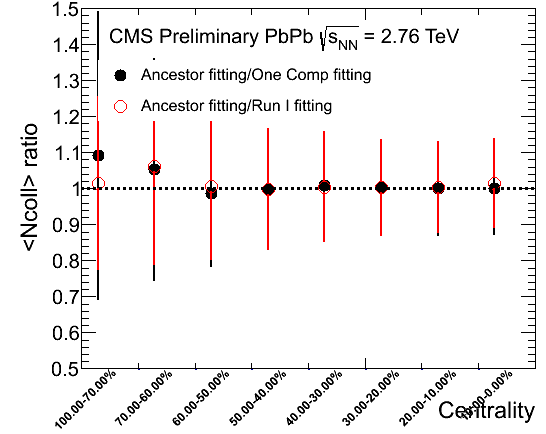
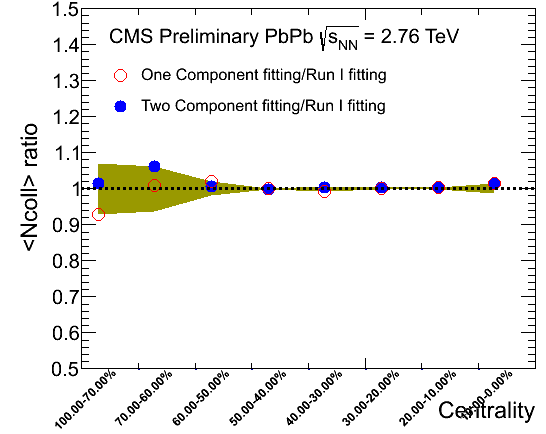
systematics

diff --git a/flow/LYZ/v2/PbPb2011MB/plotv2vseta_4p_sys.C b/flow/LYZ/v2/PbPb2011MB/plotv2vseta_4p_sys.C
@@ -1,46 +1,9 @@
 #include "par.h"
 #include "/home/xuq7/HI/jetRpA/RpA/Quality/root_setting.h"
-void plotv2vspt_4p_sys(){
+void plotv2vseta_4p_sys(){
 
 const int ntotbin=4;
-const int npt24=9;
-const double pt[npt24]={0.4,0.7,1.2,1.7,2.2,2.7,3.4,4.4,5.4};
-const double v24[5][npt24]={
-    {0.0436326,0.0795412,0.117455,0.135615,0.138952,0.137704,0.12716,0.104461,0.102546},
-    {0.0441134,0.081454,0.120992,0.142609,0.148646,0.144631,0.13748,0.115206,0.102368},
-    {0.0444633,0.0827859,0.124137,0.145269,0.149668,0.150845,0.144292,0.115638,0.127838},
-    {0.045803,0.083701,0.127181,0.148425,0.151695,0.152144,0.135538,0.115144,0.0939622}
-};
-const double v24err[5][npt24]={
-    {0.000639539,0.000826055,0.00117583,0.00173971,0.00147411,0.00425427,0.00290752,0.0075635,0.0180777},
-    {0.000489939,0.000748004,0.00106544,0.00130725,0.0021476,0.00300211,0.00460689,0.00430641,0.00958347},
-    {0.000539929,0.000592858,0.00159546,0.001461,0.00161371,0.00332517,0.00381725,0.00692403,0.0137116},
-    {0.000685138,0.0011504,0.00182689,0.00135556,0.00211262,0.00191136,0.00361452,0.00609861,0.0112248}
-};
-const double v26[5][npt24]={
-    {0.0436647,0.0766372,0.115253,0.134962,0.138116,0.132017,0.129223,0.0959764,0.159984},
-    {0.0427129,0.07916,0.119421,0.142728,0.147721,0.142104,0.138136,0.111479,0.0930553},
-    {0.0439986,0.0812754,0.121722,0.141086,0.144929,0.14576,0.141362,0.103954,0.118998},
-    {0.045338,0.081817,0.124592,0.145770,0.148010,0.151483,0.135710,0.115941,0.088239}
-};
-const double v26err[5][npt24]={
-    {0.00117633,0.00172456,0.00243925,0.00331087,0.00340786,0.00552076,0.0053438,0.00634,0.023902},
-    {0.000714298,0.00115609,0.00178786,0.00201899,0.00247538,0.0042914,0.00441189,0.00375012,0.00991865},
-    {0.0007454,0.00108873,0.00211174,0.00242773,0.002964,0.00406841,0.00325586,0.0105999,0.0164428},
-    {0.000950693,0.00149145,0.00207434,0.00228235,0.0025587,0.00320457,0.00459367,0.00899185,0.00916074}
-};
-const double v28[5][npt24]={
-    {0.0413359,0.0745479,0.111287,0.1315,0.13296,0.120331,0.132252,0.105274,0.158618},
-    {0.0424299,0.0761756,0.115879,0.137643,0.138677,0.13397,0.125922,0.103297,0.115589},
-    {0.0424748,0.079193,0.118646,0.143186,0.147939,0.139611,0.137666,0.118945,0.0998064},
-    {0.044857,0.081403,0.122831,0.143983,0.145980,0.150662,0.140130,0.104239,0.101058}
-};
-const double v28err[5][npt24]={
-    {0.00174636,0.00232066,0.00378455,0.00539576,0.00686651,0.0070001,0.00972887,0.0107575,0.0177152},
-    {0.0014467,0.00177893,0.00310776,0.00351237,0.00391883,0.00406891,0.00434652,0.00735751,0.0165999},
-    {0.000964082,0.00149995,0.00232247,0.00286737,0.00303328,0.00467016,0.00455719,0.00512068,0.00835018},
-    {0.000613315,0.00112984,0.0017138,0.00182123,0.00204996,0.0027923,0.00233936,0.00455531,0.00993196}
-};
+const int neta24 = 24;
 
 c1 = new TCanvas("c1"," ",1200,350);
 makeMultiPanelCanvas(c1,4,1,0,0,0.15,0.15,0.01);
@@ -50,9 +13,9 @@ makeMultiPanelCanvas(c2,4,1,0,0,0.15,0.15,0.01);
     gStyle->SetOptStat(0);
     gStyle->SetOptTitle(0);
     gStyle->SetErrorX(0);
-    TH1D *hFrame = new TH1D("","",80,-1,7);
+    TH1D *hFrame = new TH1D("","",80,-3,3);
     hFrame->SetTitle("");
-    hFrame->GetXaxis()->SetTitle("p_{T} (GeV/c)");
+    hFrame->GetXaxis()->SetTitle("#eta");
     hFrame->GetXaxis()->SetTitleSize(0.06);
     hFrame->GetYaxis()->SetTitleSize(0.06);
     hFrame->GetXaxis()->SetLabelSize(0.06);
@@ -60,45 +23,41 @@ makeMultiPanelCanvas(c2,4,1,0,0,0.15,0.15,0.01);
     hFrame->GetYaxis()->SetNdivisions(505);
     hFrame->GetXaxis()->CenterTitle();
     hFrame->GetYaxis()->CenterTitle();
-    hFrame->GetXaxis()->SetRangeUser(-0.3,6.3);
+    hFrame->GetXaxis()->SetRangeUser(-2.5,2.5);
 int shift=2;
 for(int i=shift;i<shift+ntotbin;i++){
         int t = ntotbin-(i-shift);
-	//TFile *fProderr = TFile::Open(Form("M%d%d/mergedv_Prod2_sub.root",trkpointmax[i],trkpointmin[i]));
-	TFile *fProd = TFile::Open(Form("mergedv_Prod2.root"));
-	TFile *fProdtc = TFile::Open(Form("../tracktc/PbPb2011MB/mergedv_Prod2.root"));
-	TFile *fProdlc = TFile::Open(Form("../tracklc/PbPb2011MB/mergedv_Prod2.root"));
-	TFile *fProdzl = TFile::Open(Form("../trackzvtxl/PbPb2011MB/mergedv_Prod2.root"));
-	TFile *fProdzs = TFile::Open(Form("../trackzvtxs/PbPb2011MB/mergedv_Prod2.root"));
-	//TVectorD *vecDv2_Proderr = (TVectorD*)fProderr->Get(Form("D_%d/vmeanmean",ibin));
-	//TVectorD *vecDv2err_Proderr = (TVectorD*)fProderr->Get(Form("D_%d/sigmavmeanmean",ibin));
-	//TVectorD *vecDavgpt_Proderr = (TVectorD*)fProderr->Get(Form("D_%d/avgavgpt",ibin));
+	TFile *fProd = TFile::Open(Form("mergedv_Prod2_finer_eta.root"));
+	TFile *fProdtc = TFile::Open(Form("../tracktc/PbPb2011MB/mergedv_Prod2_finer_eta.root"));
+	TFile *fProdlc = TFile::Open(Form("../tracklc/PbPb2011MB/mergedv_Prod2_finer_eta.root"));
+	TFile *fProdzl = TFile::Open(Form("../trackzvtxl/PbPb2011MB/mergedv_Prod2_finer_eta.root"));
+	TFile *fProdzs = TFile::Open(Form("../trackzvtxs/PbPb2011MB/mergedv_Prod2_finer_eta.root"));
 	
 	TVectorD *vecDv2_Prod = (TVectorD*)fProd->Get(Form("D_%d/vmean",i));
 	TVectorD *vecDv2err_Prod = (TVectorD*)fProd->Get(Form("D_%d/deltavmean",i));
-	TVectorD *vecDavgpt_Prod = (TVectorD*)fProd->Get(Form("D_%d/avgpt",i));
+	TVectorD *vecDavgeta_Prod = (TVectorD*)fProd->Get(Form("D_%d/avgeta",i));
 
 	TVectorD *vecDv2_Prodtc = (TVectorD*)fProdtc->Get(Form("D_%d/vmean",i));
 	TVectorD *vecDv2err_Prodtc = (TVectorD*)fProdtc->Get(Form("D_%d/deltavmean",i));
-	TVectorD *vecDavgpt_Prodtc = (TVectorD*)fProdtc->Get(Form("D_%d/avgpt",i));
+	TVectorD *vecDavgeta_Prodtc = (TVectorD*)fProdtc->Get(Form("D_%d/avgeta",i));
 
 	TVectorD *vecDv2_Prodlc = (TVectorD*)fProdlc->Get(Form("D_%d/vmean",i));
 	TVectorD *vecDv2err_Prodlc = (TVectorD*)fProdlc->Get(Form("D_%d/deltavmean",i));
-	TVectorD *vecDavgpt_Prodlc = (TVectorD*)fProdlc->Get(Form("D_%d/avgpt",i));
+	TVectorD *vecDavgeta_Prodlc = (TVectorD*)fProdlc->Get(Form("D_%d/avgeta",i));
 	
         TVectorD *vecDv2_Prodzl = (TVectorD*)fProdzl->Get(Form("D_%d/vmean",i));
 	TVectorD *vecDv2err_Prodzl = (TVectorD*)fProdzl->Get(Form("D_%d/deltavmean",i));
-	TVectorD *vecDavgpt_Prodzl = (TVectorD*)fProdzl->Get(Form("D_%d/avgpt",i));
+	TVectorD *vecDavgeta_Prodzl = (TVectorD*)fProdzl->Get(Form("D_%d/avgeta",i));
 
 	TVectorD *vecDv2_Prodzs = (TVectorD*)fProdzs->Get(Form("D_%d/vmean",i));
 	TVectorD *vecDv2err_Prodzs = (TVectorD*)fProdzs->Get(Form("D_%d/deltavmean",i));
-	TVectorD *vecDavgpt_Prodzs = (TVectorD*)fProdzs->Get(Form("D_%d/avgpt",i));
+	TVectorD *vecDavgeta_Prodzs = (TVectorD*)fProdzs->Get(Form("D_%d/avgeta",i));
 
-	//double *avgpt_Proderr = vecDavgpt_Proderr->GetMatrixArray();
+	//double *avgeta_Proderr = vecDavgeta_Proderr->GetMatrixArray();
 	//double *v2_Proderr = vecDv2_Proderr->GetMatrixArray();
 	//double *v2err_Proderr = vecDv2err_Proderr->GetMatrixArray();
 
-	double *avgpt_Prod = vecDavgpt_Prod->GetMatrixArray();
+	double *avgeta_Prod = vecDavgeta_Prod->GetMatrixArray();
 	double *v2_Prod = vecDv2_Prod->GetMatrixArray();
 	double *v2err_Prod = vecDv2err_Prod->GetMatrixArray();
 	double *v2_Prodtc = vecDv2_Prodtc->GetMatrixArray();
@@ -109,14 +68,14 @@ for(int i=shift;i<shift+ntotbin;i++){
 	double *v2err_Prodzl = vecDv2err_Prodzl->GetMatrixArray();
 	double *v2_Prodzs = vecDv2_Prodzs->GetMatrixArray();
 	double *v2err_Prodzs = vecDv2err_Prodzs->GetMatrixArray();
-	int npt = vecDavgpt_Prod->GetNrows();
+	int neta = vecDavgeta_Prod->GetNrows();
 	
 	//if(i!=ntotbin-1)
-	TGraphErrors *grProd=new TGraphErrors(npt,avgpt_Prod,v2_Prod,0,v2err_Prod);
-	TGraphErrors *grProdtc=new TGraphErrors(npt,avgpt_Prod,v2_Prodtc,0,v2err_Prodtc);
-	TGraphErrors *grProdlc=new TGraphErrors(npt,avgpt_Prod,v2_Prodlc,0,v2err_Prodlc);
-	TGraphErrors *grProdzl=new TGraphErrors(npt,avgpt_Prod,v2_Prodzl,0,v2err_Prodzl);
-	TGraphErrors *grProdzs=new TGraphErrors(npt,avgpt_Prod,v2_Prodzs,0,v2err_Prodzs);
+	TGraphErrors *grProd=new TGraphErrors(neta,avgeta_Prod,v2_Prod,0,v2err_Prod);
+	TGraphErrors *grProdtc=new TGraphErrors(neta,avgeta_Prod,v2_Prodtc,0,v2err_Prodtc);
+	TGraphErrors *grProdlc=new TGraphErrors(neta,avgeta_Prod,v2_Prodlc,0,v2err_Prodlc);
+	TGraphErrors *grProdzl=new TGraphErrors(neta,avgeta_Prod,v2_Prodzl,0,v2err_Prodzl);
+	TGraphErrors *grProdzs=new TGraphErrors(neta,avgeta_Prod,v2_Prodzs,0,v2err_Prodzs);
 	grProd->SetMarkerSize(1.5);
 	grProd->SetMarkerStyle(20);
 	grProd->SetMarkerColor(1);
@@ -161,8 +120,8 @@ for(int i=shift;i<shift+ntotbin;i++){
             grProdr->SetPointError(j,0,0);
         }
 	c1->cd(t);
-        hFrame->SetMaximum(0.35);
-        hFrame->SetMinimum(0);
+        hFrame->SetMinimum(0.10);
+        hFrame->SetMaximum(0.20);
         hFrame->GetYaxis()->SetTitle("v_{2}");	
 	hFrame->DrawCopy();
 	grProd->Draw("Psame");
@@ -208,9 +167,9 @@ for(int i=shift;i<shift+ntotbin;i++){
 	tlx2->Draw("same");
 	fProd->Close();
         }
-	c1->Print("v2vspt_4p_sys.png");
-	c1->Print("v2vspt_4p_sys.pdf");
-	c2->Print("v2vspt_4p_sysr.png");
-	c2->Print("v2vspt_4p_sysr.pdf");
+	c1->Print("v2vseta_4p_sys.png");
+	c1->Print("v2vseta_4p_sys.pdf");
+	c2->Print("v2vseta_4p_sysr.png");
+	c2->Print("v2vseta_4p_sysr.pdf");
 }
 

diff --git a/centrality/NBD/PbPb/Ancestor/double_side/Drawmethodcomp.C b/centrality/NBD/PbPb/Ancestor/double_side/Drawmethodcomp.C
@@ -28,7 +28,7 @@ for(int i=0;i<nDil;i++)
   c1->SetTicks(-1);
 
 	N=N-1;
- TString str="Npart";
+ TString str="Ncoll";
  TH1D* hist = new TH1D("","",N,0,N);
  hist->GetXaxis()->SetNdivisions(502);
 if(method==0)
@@ -156,7 +156,9 @@ c1->SaveAs(Form("%sGri.pdf",str.Data()));
   c2->SetTicks(-1);
 c2->cd();
 TGraphErrors* fdvf1 = (TGraphErrors*)graph->Clone("fdvf1");
+TGraphErrors* f1dvDil = (TGraphErrors*)graph->Clone("f1dvDil");
 TGraphErrors* fdvDil = (TGraphErrors*)graph->Clone("fdvDil");
+TGraphErrors* Dilsys = (TGraphErrors*)graph->Clone("Dilsys");
 for(int ip = 0;ip<fdvf1->GetN();ip++){
     double x = graph->GetX()[ip];
     double ey = graph->GetEY()[ip];
@@ -172,11 +174,27 @@ for(int ip = 0;ip<fdvf1->GetN();ip++){
         fdvf1->SetPointError(ip,0,y/y1*sqrt((ey/y)**2+(ey1/y1)**2));
         if(str=="Ncoll"){
         fdvDil->SetPoint(ip,x,y/yNcoll);
-        fdvDil->SetPointError(ip,0,y/yNcoll*sqrt((ey/y)**2+(eyNcoll/yNcoll)**2));
+        //double yerr = y/yNcoll*sqrt((ey/y)**2+(eyNcoll/yNcoll)**2);
+        double yerr = 0;
+        fdvDil->SetPointError(ip,0,yerr);
+        f1dvDil->SetPoint(ip,x,y1/yNcoll);
+        //double y1err = y1/yNcoll*sqrt((ey1/y1)**2+(eyNcoll/yNcoll)**2);
+        double y1err = 0;
+        f1dvDil->SetPointError(ip,0,y1err);
+        Dilsys->SetPoint(ip,x,1.);
+        Dilsys->SetPointError(ip,0,TMath::Max(fabs(y1/yNcoll-1),fabs(y/yNcoll-1)));
         }
         else if(str=="Npart"){
         fdvDil->SetPoint(ip,x,y/yNpart);
-        fdvDil->SetPointError(ip,0,y/yNpart*sqrt((ey/y)**2+(eyNpart/yNpart)**2));
+        //double yerr = y/yNpart*sqrt((ey/y)**2+(eyNcoll/yNpart)**2);
+        double yerr = 0;
+        fdvDil->SetPointError(ip,0,yerr);
+        f1dvDil->SetPoint(ip,x,y1/yNpart);
+        //double y1err = y1/yNpart*sqrt((ey1/y1)**2+(eyNcoll/yNcoll)**2);
+        double yerr = 0;
+        f1dvDil->SetPointError(ip,0,y1err);
+        Dilsys->SetPoint(ip,x,1.);
+        Dilsys->SetPointError(ip,0,TMath::Max(fabs(y1/yNpart-1),fabs(y/yNpart-1)));
         }
 }
 }
@@ -189,13 +207,21 @@ fdvf1->SetMarkerColor(1);
 fdvf1->SetLineColor(1);
 fdvf1->SetLineWidth(2);
 fdvf1->SetMarkerSize(1.4);
-fdvf1->Draw("Psameez");
-fdvDil->SetMarkerStyle(24);
-fdvDil->SetMarkerColor(2);
-fdvDil->SetLineColor(2);
+//fdvf1->Draw("Psameez");
+f1dvDil->SetMarkerStyle(24);
+f1dvDil->SetMarkerColor(2);
+f1dvDil->SetLineColor(2);
+f1dvDil->SetLineWidth(2);
+f1dvDil->SetMarkerSize(1.4);
+fdvDil->SetMarkerStyle(20);
+fdvDil->SetMarkerColor(4);
+fdvDil->SetLineColor(4);
 fdvDil->SetLineWidth(2);
 fdvDil->SetMarkerSize(1.4);
+Dilsys->SetFillColor(kYellow+2);
+Dilsys->Draw("e3same");
 fdvDil->Draw("Psameez");
+f1dvDil->Draw("Psameez");
 tex1->Draw();
 TLine *l = new TLine(0,1,N,1);
 l->SetLineStyle(2);
@@ -206,8 +232,9 @@ TLegend *leg1 = new TLegend(0.18,0.72,0.50,0.86);
     leg1->SetBorderSize(0);
     leg1->SetTextFont(42);
     leg1->SetTextSize(0.04);
-    leg1->AddEntry(fdvf1,"Ancestor fitting/One Comp fitting","p");
-    leg1->AddEntry(fdvDil,"Ancestor fitting/Run I fitting","p");
+    //leg1->AddEntry(fdvf1,"Ancestor fitting/One Comp fitting","p");
+    leg1->AddEntry(f1dvDil,"One Component fitting/Run I fitting","p");
+    leg1->AddEntry(fdvDil,"Two Component fitting/Run I fitting","p");
     double y = gPad->GetUymin()+0.5;
    for (int i=0;i<N;i++) {
       double x = hist->GetXaxis()->GetBinCenter(i+1);
